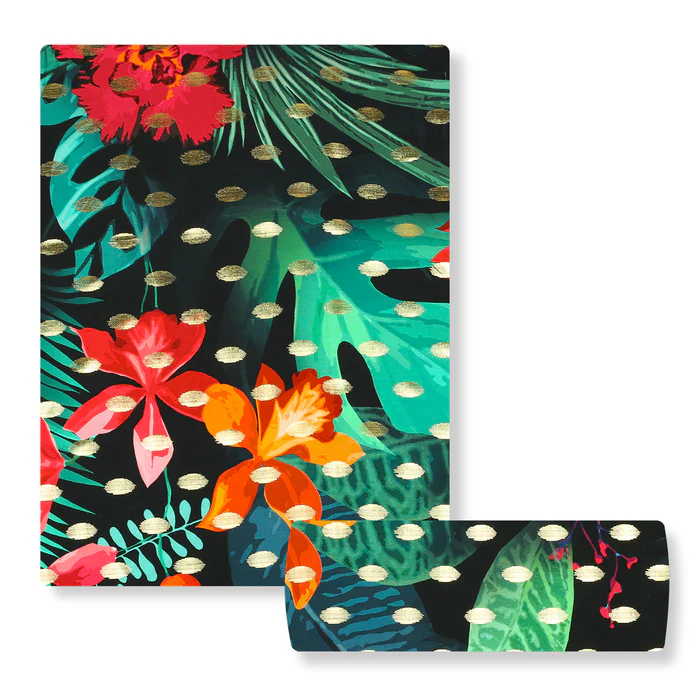
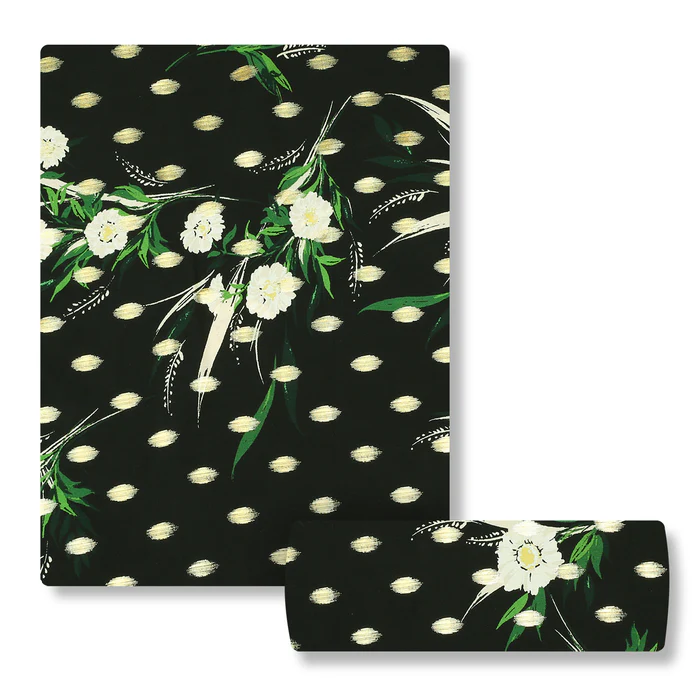
Cart created

diff --git a/src/data.jsx b/src/data.jsx
@@ -1,29 +1,36 @@
-import img from './assets/image.png'
-
-
+// import img from '../public/assets/image.png'
+import image from './assets/image2.png'
+import image2 from './assets/image3.png'
+import image3 from './assets/image copy 2.png'
+import image4 from './assets/image.png'
+ 
 
 
 export const products = [
     {
         id : 1,
         product_title : "Unstcihed",
-        price : 1200
-       
+        price : "3,495.00",
+        img : image
     },
     {
         id : 2,
         product_title : "Unstcihed",
-        price : 1200
+        price : "3,495.00",
+        img : image2
     },
     {
         id : 3,
         product_title : "Unstcihed",
-        price : 1200
+        price : "3,495.00",
+        img : image3
+
     },
     {
         id : 4,
         product_title : "Unstcihed",
-        price : 1200
+        price : "3,495.00",
+        img : image4
     },
    
     

diff --git a/src/Components/Cards.jsx b/src/Components/Cards.jsx
@@ -1,9 +1,8 @@
 import React from 'react'
-import 'bootstrap/dist/css/bootstrap.min.css';
-import image from '../assets/image.png'
-import img from '../assets/image2.png'
+// import image from '../assets/image2.png'
+// import img from '../assets/image2.png'
 import { products } from '../data';
-import { Link } from 'react-router';
+// import { Link } from 'react-router';
 
 function Cards() {
   return (
@@ -14,7 +13,7 @@ function Cards() {
                 <div key={item.id} className="col-md-3">
                 <div className="producInner">
                     <span className="onsale">OnSale</span>
-                <img className='image1' src={image} alt="Product 1" />
+                <img className='image1' src={item.img} alt="Product 1" />
                 <p> {item.product_title} </p>
                 <button>Rs {item.price} </button>
                 </div>

diff --git a/src/pages/Cart.jsx b/src/pages/Cart.jsx
@@ -1,5 +1,5 @@
 import React from 'react'
-import img from '../assets/Cart.png'
+import img from '../assets/cart.png'
 
 
 function Cart() {
@@ -13,7 +13,7 @@ function Cart() {
       </div>
       <div className="col-md-6">
         <div className="description">
-          <p>Tropical Noir Linen 2pc</p>
+          <p>Midnight Petals Linen 2pc</p>
           <p>Rs.3,495.00</p>
         </div>
       </div>

diff --git a/src/Components/Header.jsx b/src/Components/Header.jsx
@@ -16,7 +16,7 @@ import Cart from '../pages/Cart.jsx'
 
       <div className="header-main">
         <div className="logo">
-        <Link to="/home">  <img src={logo} alt="Kinari" /> </Link>
+        <Link to="/">  <img src={logo} alt="Kinari" /> </Link>
         </div>
         <nav>
           <ul className="nav-links">
